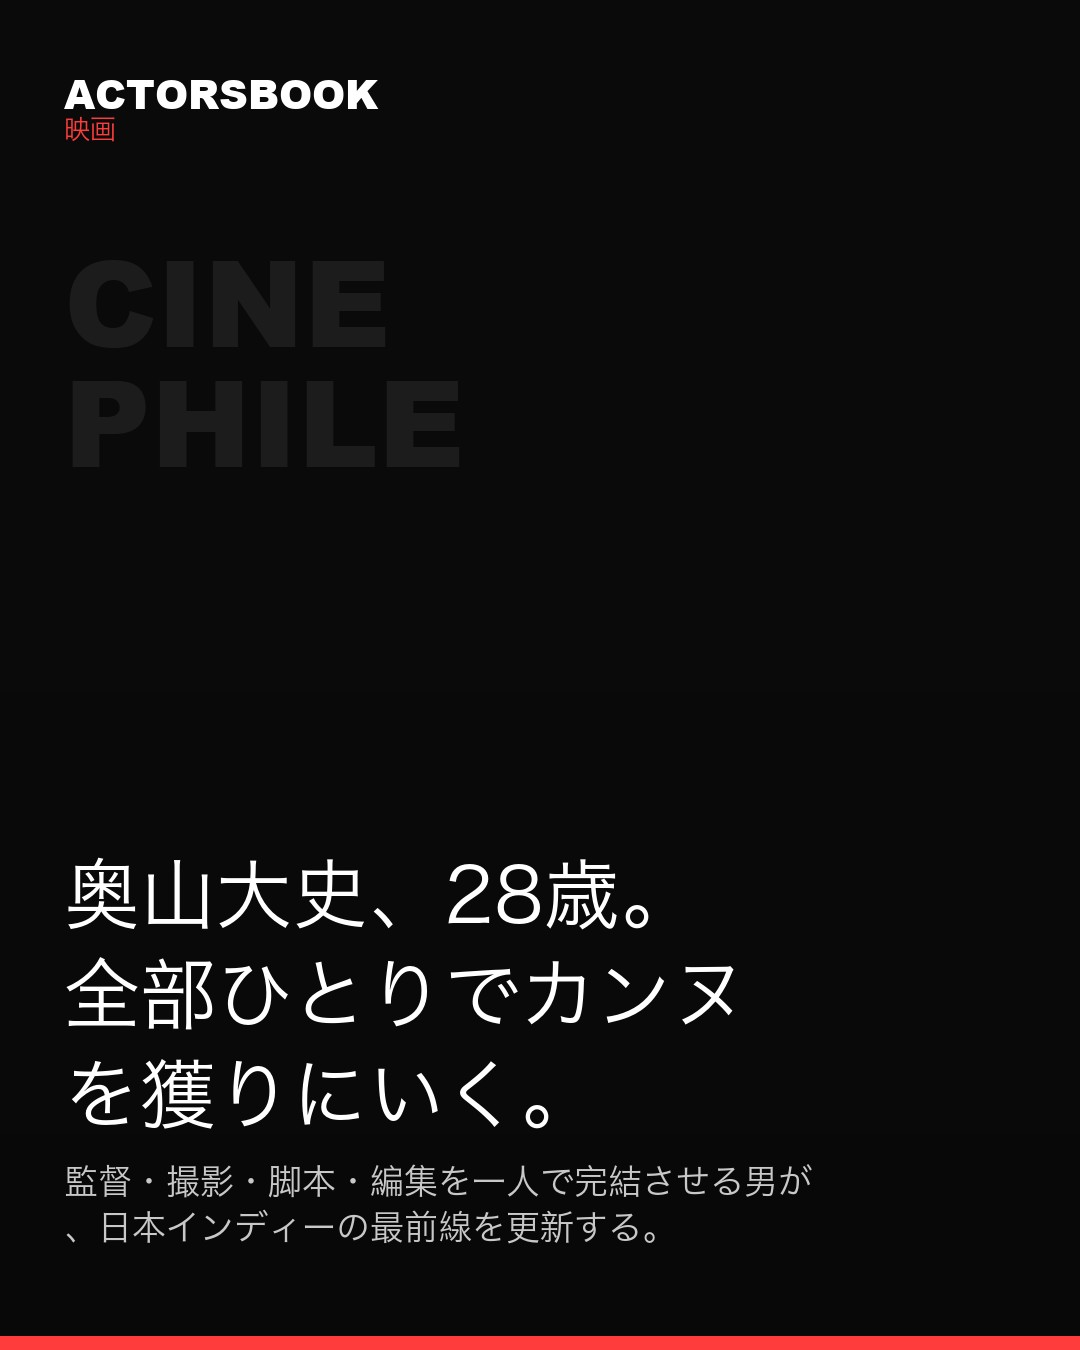
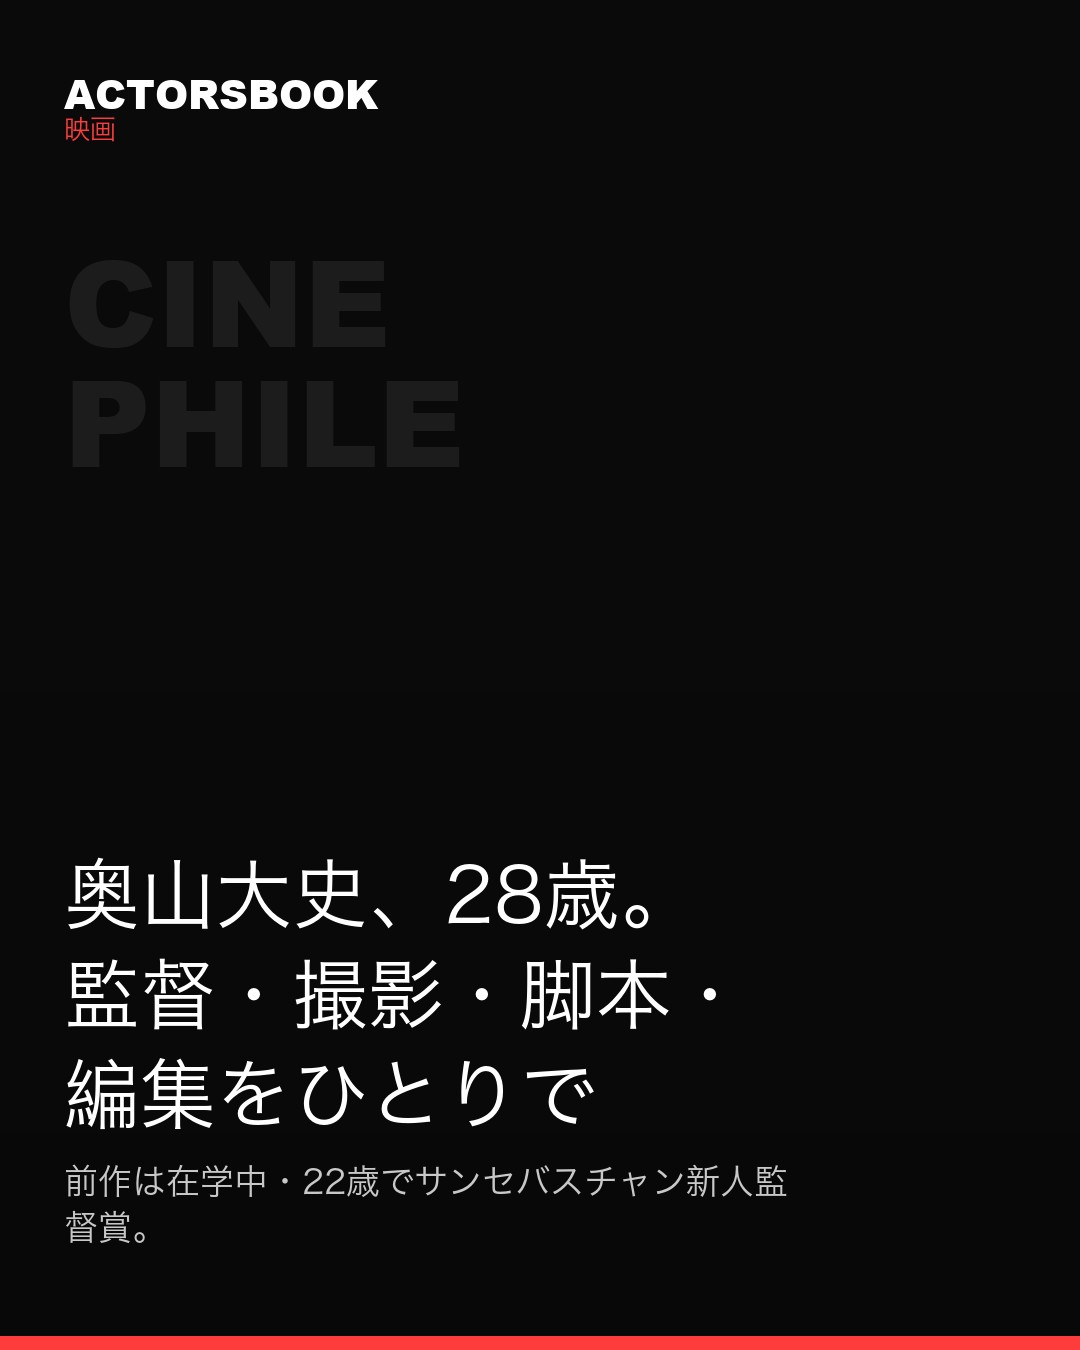
edit: 見出しを普通トーンに書き換え + 好みを記録
本多FB「タイトルがカッコ良すぎる/普通でいい」を反映。既存3本の見出し・
リードを落ち着いたトーンに。サムネ再生成。taste_profileにtitle_style追加、
生成プロンプトにも見出しトーンの制約を追記。

Changed region(s): [[0.0611, 0.7156, 0.7333, 0.9333], [0.6417, 0.7156, 0.6722, 0.7467]]

diff --git a/scripts/pipeline.py b/scripts/pipeline.py
@@ -174,7 +174,11 @@ ARTICLE_PROMPT = """以下のソースを元に、日本語の映画ニュース
 # 要件
 - 完全なでっち上げ厳禁。ソースにある事実だけを使う。
 - 日本のインディペンデント映画シーンの視点で書く。
-- Hypebeast的なトーン（断定的・熱量・固有名詞重視・無駄がない）。
+- 本文は固有名詞重視で読ませる（過剰な煽りは抑えめ）。
+- 【重要】見出し(headline)は"普通・落ち着いたトーン"。事実ベースで淡々と。
+  カッコつけ・煽り・上から目線・決めゼリフは禁止。
+  悪い例:「これを観ずして何を語る」「全部ひとりでカンヌを獲りにいく」
+  良い例:「奥山大史、28歳。監督・撮影・脚本・編集をひとりで」
 - 以下のJSONだけを返す（前後に説明文を付けない）。
 
 {{
